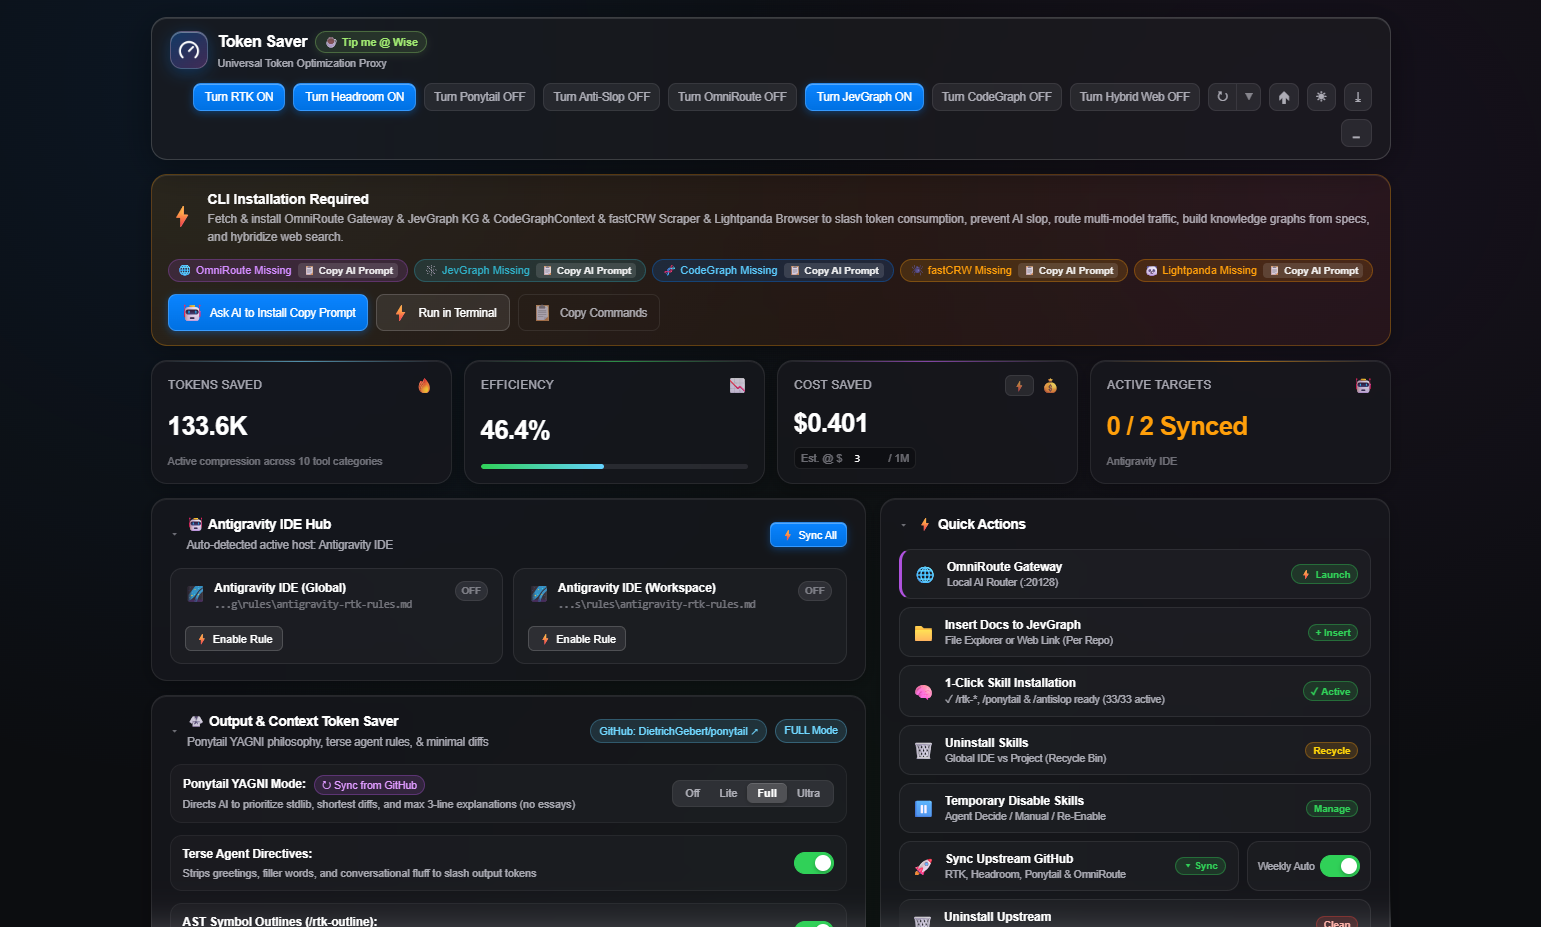
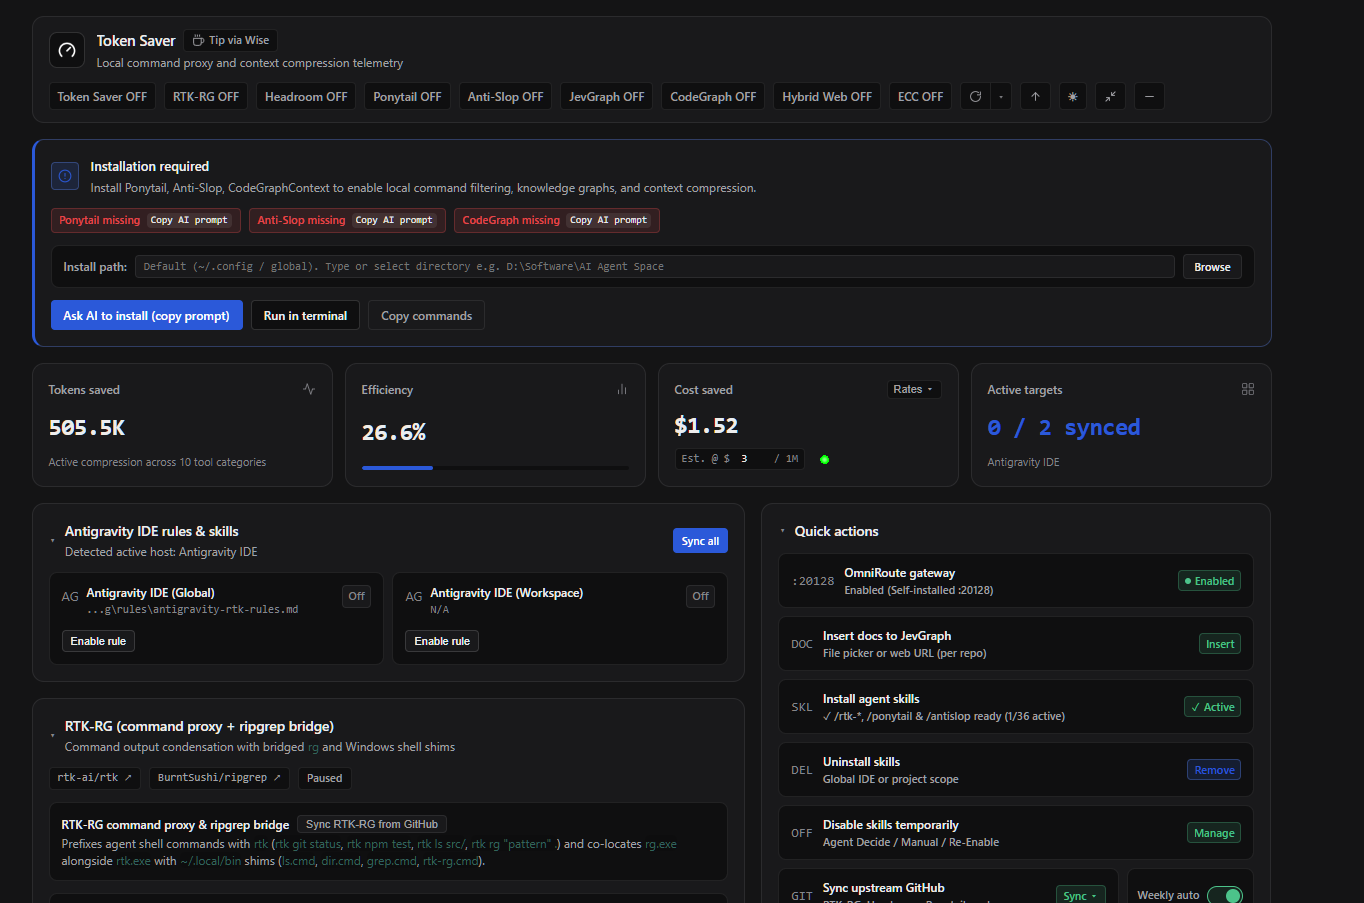
feat: add rtk-service module and dashboard preview resources

diff --git a/extension/rtk-service.js b/extension/rtk-service.js
@@ -522,7 +522,7 @@ class RtkService {
                 icon: 'CCR',
                 layer: 'Context Compression & CCR',
                 category: 'context',
-                color: '#c2b9a7',
+                color: '#0ea5e9',
                 accentColor: 'var(--text-secondary, #a1a1a6)',
                 status: pluginStatus.headroomInstalled ? 'active' : (pluginStatus.headroomEnabled ? 'synced' : 'disabled'),
                 statusLabel: pluginStatus.headroomInstalled ? 'Active' : (pluginStatus.headroomEnabled ? 'Rule synced' : 'Paused'),
@@ -546,7 +546,7 @@ class RtkService {
                 icon: 'YGN',
                 layer: 'Prompt & Generation Directives',
                 category: 'prompt',
-                color: '#a1a1a6',
+                color: '#10b981',
                 accentColor: 'var(--text-secondary, #a1a1a6)',
                 status: pluginStatus.ponytailInstalled ? 'active' : 'ready',
                 statusLabel: pluginStatus.ponytailInstalled ? 'Active' : 'Ready',
@@ -570,7 +570,7 @@ class RtkService {
                 icon: 'SLP',
                 layer: 'Code Comment & Pattern Hygiene',
                 category: 'hygiene',
-                color: '#8e8e95',
+                color: '#f59e0b',
                 accentColor: 'var(--text-muted, #85858b)',
                 status: pluginStatus.antiSlopInstalled ? 'active' : 'ready',
                 statusLabel: pluginStatus.antiSlopInstalled ? 'Active' : 'Ready',
@@ -594,7 +594,7 @@ class RtkService {
                 icon: 'JEV',
                 layer: 'Document & Knowledge Graph Compression',
                 category: 'context',
-                color: '#7a7a82',
+                color: '#ec4899',
                 accentColor: 'var(--text-muted, #85858b)',
                 status: pluginStatus.jevGraphInstalled ? 'active' : (pluginStatus.jevGraphEnabled ? 'synced' : 'disabled'),
                 statusLabel: pluginStatus.jevGraphInstalled ? 'Active' : (pluginStatus.jevGraphEnabled ? 'Rule synced' : 'Paused'),
@@ -618,7 +618,7 @@ class RtkService {
                 icon: 'AST',
                 layer: 'Codebase Semantic AST & Architecture Graph',
                 category: 'context',
-                color: '#b0b0b8',
+                color: '#8b5cf6',
                 accentColor: 'var(--text-secondary, #a1a1a6)',
                 status: pluginStatus.codeGraphInstalled ? 'active' : (pluginStatus.codeGraphEnabled ? 'synced' : 'disabled'),
                 statusLabel: pluginStatus.codeGraphInstalled ? 'Active' : (pluginStatus.codeGraphEnabled ? 'Rule synced' : 'Paused'),
@@ -642,7 +642,7 @@ class RtkService {
                 icon: 'WEB',
                 layer: '3-Tier Hybrid Web Research & Scraping',
                 category: 'web',
-                color: '#696972',
+                color: '#06b6d4',
                 accentColor: 'var(--text-muted, #85858b)',
                 status: (pluginStatus.crwInstalled || pluginStatus.lightpandaInstalled) ? 'active' : ((pluginStatus.crwEnabled || pluginStatus.lightpandaEnabled) ? 'synced' : 'disabled'),
                 statusLabel: (pluginStatus.crwInstalled && pluginStatus.lightpandaInstalled) ? 'Active (dual)' : ((pluginStatus.crwInstalled || pluginStatus.lightpandaInstalled) ? 'Active' : ((pluginStatus.crwEnabled || pluginStatus.lightpandaEnabled) ? 'Rule synced' : 'Paused')),
@@ -666,7 +666,7 @@ class RtkService {
                 icon: 'ECC',
                 layer: 'Context Compaction & Memory Checkpoints',
                 category: 'context',
-                color: '#575760',
+                color: '#f97316',
                 accentColor: 'var(--text-muted, #85858b)',
                 status: pluginStatus.eccInstalled ? 'active' : (pluginStatus.eccEnabled ? 'synced' : 'disabled'),
                 statusLabel: pluginStatus.eccInstalled ? 'Active' : (pluginStatus.eccEnabled ? 'Rule synced' : 'Paused'),
